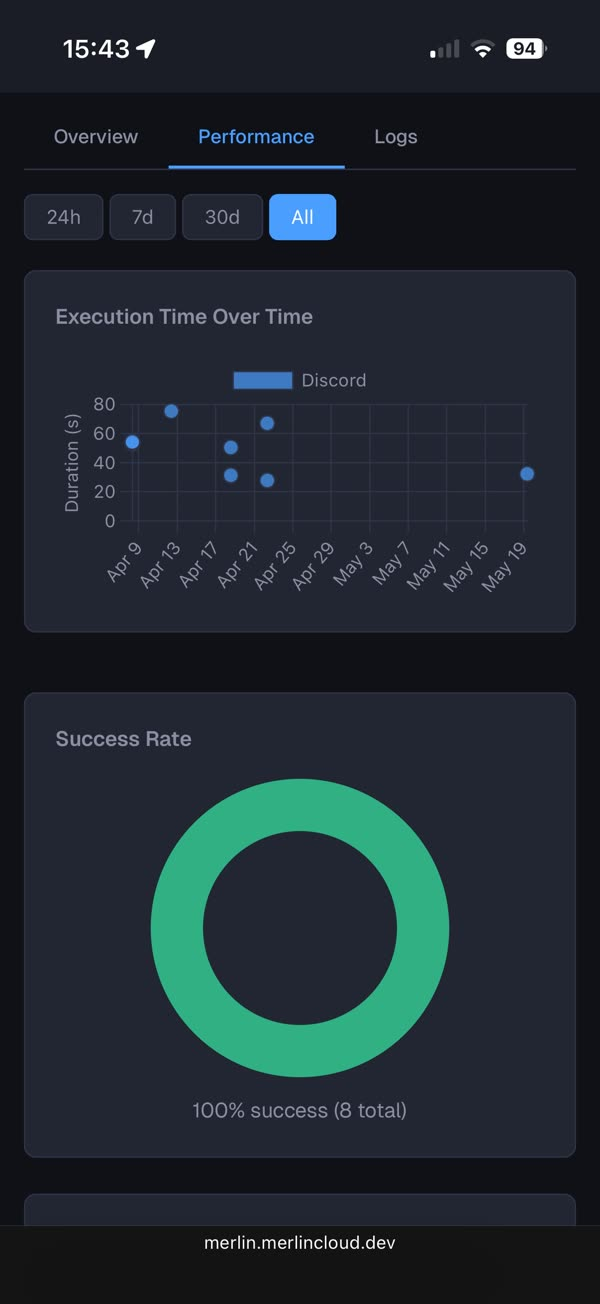
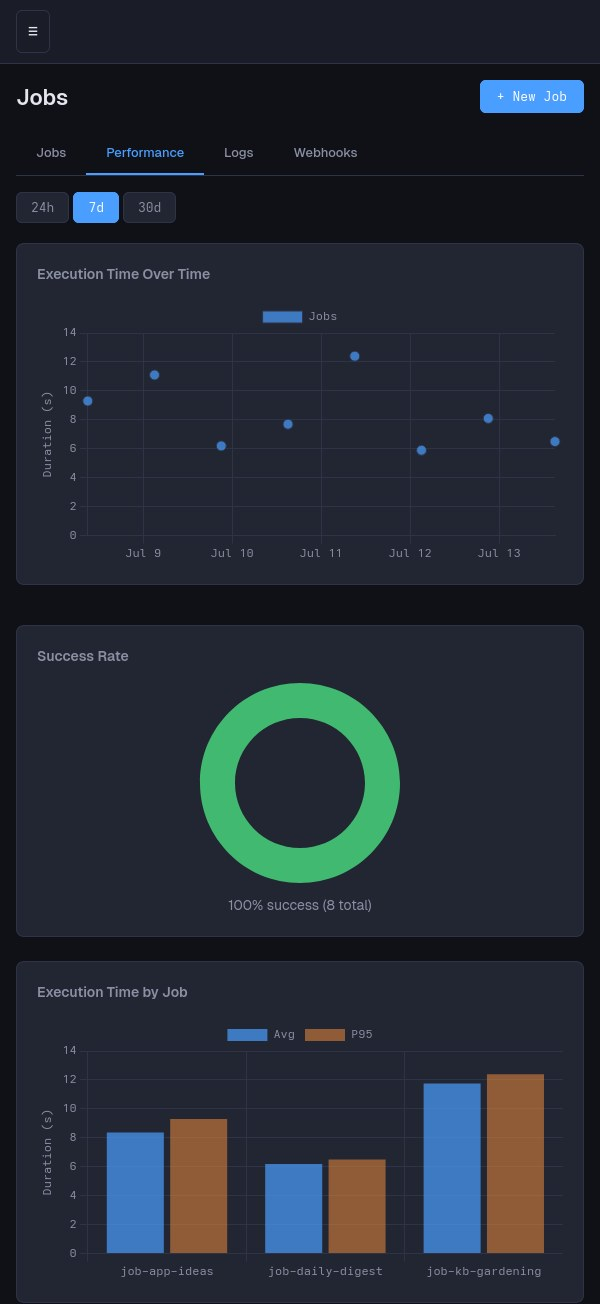
Rewrite the jobs doc around triggers and refresh its screenshots
The doc still read as a scheduler with webhooks bolted on at the end,
and its screenshots were the pre-rename UI (the jobs list literally
showed "Cron Jobs" with only Jobs/Logs tabs, no webhooks).

- Reframe around the actual model: a job is one unit of work launched
  by any combination of triggers — schedule, webhook, or by hand. New
  "Triggers" section with Schedule / Webhook / Manual-only as peers;
  the webhook content is promoted out of the tail into it.
- New "Watch webhook traffic" section documents the Webhooks tab
  (fires + rejected attempts), and the Logs section notes the trigger
  column. Reflects the shipped design: 256-bit secret, no in-app
  throttle, edge flood protection, 401/403/404 codes.
- Recaptured all screenshots against the current UI at the same
  600x1304 size: the jobs list (now "Jobs", four tabs, webhook
  badges, a schedule-only / webhook-only / both trigger mix), the
  Performance tab (correct tabs + "Jobs" legend), and two new ones —
  the webhook editor block and the Webhooks activity tab.
- CLI examples now include a webhook-only job; troubleshooting gains
  webhook 401/403/404 and coalesced entries.

diff --git a/docs/jobs.md b/docs/jobs.md
@@ -1,28 +1,29 @@
 # Jobs
 
-The `/jobs` page manages Merlin's built-in scheduler. It starts with the
-dashboard (no system crontab involved) and checks for due jobs every
-minute. A job is either an **agent prompt** (a full agent run, the same
-brain and memory as every other channel) or a **shell command** (plain
-`bash -lc`, no agent, no token cost). This is the flywheel node that works
-while you sleep: scheduled agent runs read and feed the
-[notes and knowledge base](notes.md), then report back to Discord where
-you can pick up the conversation.
+A **job** is one unit of work — a full agent run or a shell command — that
+Merlin can launch three ways: on a **schedule**, by an **incoming webhook**,
+or **by hand**. The triggers are independent: a job can have a schedule, a
+webhook, both, or neither (manual-only). No system crontab is involved; the
+`/jobs` page runs its own scheduler that starts with the dashboard. Agent
+jobs are the same brain and memory as every other channel — this is the
+flywheel node that works while you sleep: they read and feed the
+[notes and knowledge base](notes.md), then report to Discord where you can
+pick up the conversation.
 
 ![Jobs list on a phone](jobs/phone-jobs.jpg)
 
-The page has tabs for Jobs, Performance, and Logs — plus a Webhooks tab
-when any job has a webhook (see below). The same jobs can also be managed
-from the terminal with `merlin job`.
+The page has tabs for **Jobs**, **Performance**, and **Logs** — plus a
+**Webhooks** tab once any job has a webhook. Everything here can also be
+driven from the terminal with `merlin job`.
 
 ## See your jobs
 
-The Jobs tab shows one card per job: a status dot (gray: never run,
-green: last run succeeded, red: last run failed, exit code in the
-tooltip), the job ID, an `agent` or `command` badge, a `paused` tag when
-disabled, and a bell badge when Discord notifications are wired up. Below
-that: the schedule in plain words, timezone, next and last run, and the
-last run's cost and duration.
+The Jobs tab shows one card per job: a status dot (gray: never run, green:
+last run succeeded, red: last run failed, exit code in the tooltip), the job
+ID, an `agent` or `command` badge, a `webhook` badge when it is
+webhook-firable, a `paused` tag when disabled, and a bell badge when Discord
+notifications are wired up. Below that: the schedule in plain words (or
+`none`), timezone, next and last run, and the last run's cost and duration.
 
 ## Create a job
 
@@ -30,15 +31,71 @@ Hit **+ New Job**. Job IDs are slugs: lowercase letters, digits, single
 hyphens, starting with a letter, max 30 characters (the field auto-cleans
 what you type). The description is free text.
 
-You never have to write a cron expression: pick Every N minutes, Hourly,
-Daily, Weekly (day chips with Weekdays / Weekends / Every day shortcuts),
-Monthly, or Custom for a raw expression. A live preview shows the
-human-readable schedule, the next 3 run times in your timezone, and the
-generated cron expression.
+## Triggers
 
-Each job has its own timezone, defaulting to your browser's. Schedules
-are DST-aware: a 17:00 job stays at 17:00 wall-clock across the time
-change. The server-wide default comes from `CRON_TIMEZONE`.
+A job needs at least one way to run. Set any combination of the two triggers
+below; a job with neither is **manual-only** (see the end of this section).
+
+### Schedule
+
+Pick a **Schedule** in the editor. You never have to write a cron
+expression: choose Every N minutes, Hourly, Daily, Weekly (day chips with
+Weekdays / Weekends / Every day shortcuts), Monthly, Custom for a raw
+expression, or **No schedule** for a webhook- or manual-only job. A live
+preview shows the human-readable schedule, the next 3 run times in your
+timezone, and the generated cron expression.
+
+Each job has its own timezone, defaulting to your browser's. Schedules are
+DST-aware: a 17:00 job stays at 17:00 wall-clock across the time change. The
+server-wide default comes from `CRON_TIMEZONE`.
+
+### Webhook
+
+![Webhook trigger in the job editor](jobs/phone-webhook.jpg)
+
+Any job can be launched by an external HTTP call — an uptime monitor's
+incident alert, a CI pipeline, a shortcut on your phone. In the editor,
+check **Allow firing this job via HTTP webhook** and save: Merlin generates
+a secret and shows the job's public URL. A `POST` to that URL with the
+secret launches the job exactly like the scheduler would:
+
+```bash
+curl -X POST -H 'X-Merlin-Webhook-Secret: whk_...' \
+  https://your-instance/webhooks/job/my-job
+```
+
+If the sender cannot set headers, append `?token=whk_...` instead — but
+prefer the header: a secret in the URL can show up in server and proxy logs,
+whereas a header does not. `merlin job url <id>` prints the URL, the secret,
+and that exact curl command; `merlin job test <id>` fires the hook against
+your own server as a dry run of the whole path.
+
+What to know:
+
+- **One run at a time.** A fire while a run is already active is accepted
+  (HTTP 200) but coalesces into the running one — a monitor that fires five
+  times during one incident launches exactly one agent.
+- **Fresh session per fire.** Each webhook-launched agent run starts with a
+  clean session, so two separate incidents never share context.
+- **The secret is the key.** Anyone with the URL + secret can run the job
+  (and a command job runs a shell command), so treat it like a credential.
+  Rotate it anytime from the editor or `merlin job webhook <id> --rotate`;
+  the old secret stops working immediately. The secret is a 256-bit token,
+  so guessing it is hopeless — there is no in-app rate limiter; flood
+  protection, if you need it, is a job for your reverse proxy (on Merlin
+  Cloud it is handled for you).
+- **Where the URL comes from.** On Merlin Cloud it rides your instance's own
+  subdomain (`https://{you}.merlincloud.dev/webhooks/job/{id}`), discovered
+  automatically and following along if you rename your environment.
+  Self-hosted behind your own tunnel or proxy, set the **Public URL** in
+  Settings (or `MERLIN_DASHBOARD_URL` in `~/.merlin/config.env`) and the
+  editor and CLI print it.
+
+### Manual only
+
+A job with **no schedule and no webhook** runs only when you fire it — from
+the card's **Run Now**, **Save & run now**, or `merlin job trigger <id>`.
+Handy for a task you want on tap without it running on its own.
 
 ## Choose the action
 
@@ -50,15 +107,16 @@ The **Agent prompt / Shell command** toggle decides what runs:
   agent, no token cost. stdout and stderr land in the run log.
 
 **Working directory** is optional and applies to both types: the job's
-setting, else where Merlin was launched, else `$HOME`. Point an agent job
-at a project repo and it auto-loads that repo's `CLAUDE.md`.
+setting, else where Merlin was launched, else `$HOME`. Point an agent job at
+a project repo and it auto-loads that repo's `CLAUDE.md`. Clear the field to
+fall back to the default.
 
 ## Set notifications
 
 **Notify** is Always, Errors only, or Never: a Discord report after each
 run, posted through the [bot](bot.md) when it is enabled. When the bot is
-loaded you can override the destination channel per job; leave it empty
-to use the bot's default channel.
+loaded you can override the destination channel per job; leave it empty to
+use the bot's default channel.
 
 ## Agent options
 
@@ -66,154 +124,128 @@ Hidden for command jobs:
 
 - **Max Turns**: cap on agent turns, 0 means unlimited.
 - **Session Mode**: fresh session each run (default, recommended) or
-  persistent. Fresh runs start clean, so anything worth keeping must land
-  in the notes system. Persistent keeps context across runs, but costs
-  grow over time.
+  persistent. Fresh runs start clean, so anything worth keeping must land in
+  the notes system. Persistent keeps context across runs, but costs grow
+  over time. (Webhook fires always get a fresh session regardless of this
+  setting, so independent incidents never share context.)
 
 ## Save and run
 
-**Create Job** saves it. **Save & run now** saves, fires an immediate
-run, and drops you straight into that job's logs. A freshly created job
-otherwise waits for its next scheduled occurrence (see troubleshooting).
+**Create Job** saves it. **Save & run now** saves, fires an immediate run,
+and drops you straight into that job's logs. A freshly created scheduled job
+otherwise waits for its next occurrence (see troubleshooting).
 
 ## Run, pause, edit, delete
 
-Each card has a toggle switch (off pauses the job: the scheduler skips it
-and the card dims with a `paused` tag) and a three-dot menu: **Edit**
-(reopens the form, the ID is locked), **Run Now** (background run, works
-even on paused jobs), **View Logs** (Logs tab pre-filtered to that job),
-and **Delete** (confirm dialog; removes the job and all its logs, state,
-and locks).
+Each card has a toggle switch (off pauses the job — the scheduler skips it,
+webhook fires are refused, and the card dims with a `paused` tag) and a
+three-dot menu: **Edit** (reopens the form, the ID is locked), **Run Now**
+(background run, works even on paused jobs), **View Logs** (Logs tab
+pre-filtered to that job), and **Delete** (confirm dialog; removes the job
+and all its logs, state, and locks).
 
 ## Read run history
 
-The Logs tab lists runs newest-first across all jobs, with a per-job
-filter: time, job, status, duration, cost. Click a row to expand the
-captured output; agent runs get a **View session** link into the session
-viewer for the full transcript.
+The Logs tab lists runs newest-first across all jobs, with a per-job filter:
+time, job, status, trigger (schedule / webhook / manual), duration, cost.
+Click a row to expand the captured output; agent runs get a **View session**
+link into the session viewer for the full transcript.
+
+## Watch webhook traffic
+
+![The Webhooks tab: fires and rejected attempts](jobs/phone-webhooks.jpg)
+
+The **Webhooks** tab (shown once any job has a webhook) is the audit view
+for the public endpoint. It lists every fire **and every rejected attempt**
+(wrong secret, unknown job) with the caller's IP — a public endpoint's
+failed hits are worth seeing. Outcomes are color-coded: `launched` and
+`coalesced` in green/amber, rejections in red. Filter by webhook job with
+the dropdown. The editor also shows a "last fired" line per job.
 
 ## Check performance
 
 ![Job performance dashboard](jobs/phone-job-performance.jpg)
 
 The Performance tab charts execution time over time, success rate, and
-execution time and cost by job, over a 24h / 7d / 30d range. Only agent
-runs appear here: command jobs never invoke the engine, so they have no
-metrics to chart (their results still show in Jobs and Logs).
+execution time and cost by job, over a 24h / 7d / 30d range. Only agent runs
+appear here: command jobs never invoke the engine, so they have no metrics
+to chart (their results still show in Jobs and Logs).
 
 ## Manage from the terminal
 
-`merlin job` covers the same jobs: add, list, get, enable, disable,
-remove, trigger, history, plus the webhook trigger (webhook, url, test).
-`merlin job --help` has the full reference.
-One example:
+`merlin job` covers the same jobs: add, list, get, enable, disable, remove,
+trigger, history, plus the webhook trigger (`webhook`, `url`, `test`).
+`merlin job --help` has the full reference. Two examples:
 
 ```bash
+# A scheduled agent job
 merlin job add --schedule "0 7 * * *" \
   --prompt "Summarize yesterday's commits and log highlights to the KB" \
   --description "Morning digest"
+
+# A webhook-only job, then print its public URL + secret
+merlin job add --prompt "Triage the outage" --description "Incident triage" --webhook
+merlin job url incident-triage
 ```
 
-The ID is auto-slugged from the description unless you pass one. The CLI
+The ID is auto-slugged from the description unless you pass one. Omit
+`--schedule` for a webhook- or manual-only job (passing an empty
+`--schedule ""` is an error, to catch an unset shell variable). The CLI
 creates agent prompt jobs; command jobs, working directories, and per-job
 timezones are set in the web UI. `merlin job trigger <id>` runs a job
-immediately, bypassing the schedule; `merlin job history` shows recent
-runs.
-
-## Fire a job from outside (webhook)
-
-Any job can be launched by an external HTTP call — an uptime monitor's
-incident alert, a CI pipeline, a shortcut on your phone. In the job editor,
-check **Allow firing this job via HTTP webhook** and save: Merlin generates
-a secret and shows the job's public URL. A `POST` to that URL with the
-secret launches the job exactly like the scheduler would:
-
-```bash
-curl -X POST -H 'X-Merlin-Webhook-Secret: whk_...' \
-  https://your-instance/webhooks/job/my-job
-```
-
-If the sender cannot set headers, append `?token=whk_...` instead — but
-prefer the header: a secret in the URL can show up in server and proxy
-logs, whereas a header does not.
-`merlin job url <id>` prints the URL, the secret, and that exact curl
-command; `merlin job test <id>` fires the hook against your own server as a
-dry run of the whole path.
-
-What to know:
-
-- **One run at a time.** A fire while a run is already active is accepted
-  (HTTP 200) but coalesces into the running one — a monitor that fires five
-  times during one incident launches exactly one agent.
-- **Fresh session per fire.** Each webhook-launched agent run starts with a
-  clean session, so two separate incidents never share context.
-- **Schedule optional.** A job can have a schedule, a webhook, both, or
-  neither (manual-only) — pick "No schedule" in the editor for a
-  webhook-only job.
-- **The secret is the key.** Anyone with the URL + secret can run the job
-  (and a command job runs a shell command), so treat it like a credential.
-  Rotate it anytime from the editor or `merlin job webhook <id> --rotate`;
-  the old secret stops working immediately.
-- **Watch the traffic.** The **Webhooks** tab shows every fire and every
-  rejected attempt (wrong secret, unknown job) with the caller's IP — a
-  public endpoint's failed hits are worth seeing. The secret is a 256-bit
-  token, so guessing it is hopeless; flood protection, if you need it, is a
-  job for your reverse proxy (on Merlin Cloud it's handled for you).
-
-On Merlin Cloud, the URL rides your instance's own subdomain
-(`https://{you}.merlincloud.dev/webhooks/job/{id}`) — discovered
-automatically, and it follows along if you rename your environment.
-Self-hosted behind your own tunnel or proxy, set `MERLIN_DASHBOARD_URL` in
-`~/.merlin/config.env` to whatever address reaches your box, and the editor
-and CLI will print it.
+immediately, bypassing the schedule; `merlin job history` shows recent runs.
 
 ## Continue a run on Discord
 
 A job report on Discord is not a dead end. Messages posted in a thread
-attached to the report resume that exact agent session, with the run's
-full context. Long reports get a thread automatically; for short ones,
-start a thread on the report message. Ask follow-ups, have your agent
-save findings to the knowledge base, and the next scheduled run reads
-them. See [the Discord bot](bot.md).
+attached to the report resume that exact agent session, with the run's full
+context. Long reports get a thread automatically; for short ones, start a
+thread on the report message. Ask follow-ups, have your agent save findings
+to the knowledge base, and the next scheduled run reads them. See
+[the Discord bot](bot.md).
 
 ## Mobile notes
 
 - The create/edit form goes fullscreen on a phone (centered dialog on
-  desktop), and footer buttons stack with the primary action closest to
-  your thumb.
+  desktop), and footer buttons stack with the primary action closest to your
+  thumb.
 - Time and date fields open the native iOS picker, restyled to match the
   rest of the form; inputs are sized to avoid the iOS focus zoom.
-- Job cards stack info above actions, and buttons and form controls
-  keep comfortable touch targets.
+- Job cards stack info above actions, and buttons and form controls keep
+  comfortable touch targets.
 
 ## Troubleshooting
 
 - **A new job did not run right away**: the scheduler registers a job the
-  first time it sees it and waits for the next scheduled occurrence. Use
-  Save & run now, Run Now, or `merlin job trigger` to fire it now.
-- **A run was skipped, not run late**: if Merlin was down past a job's
-  grace window (15 minutes by default, per-job overridable), the missed
-  run is skipped and the schedule advances.
-- **Red banner on /jobs**: the scheduler crashed in the last 24 hours.
-  Check the logs, then dismiss.
+  first time it sees it and waits for the next scheduled occurrence. Use Save
+  & run now, Run Now, or `merlin job trigger` to fire it now.
+- **A run was skipped, not run late**: if Merlin was down past a job's grace
+  window (15 minutes by default, per-job overridable), the missed run is
+  skipped and the schedule advances.
+- **A webhook returned 401 / 403 / 404**: `401` is a bad or missing secret,
+  `403` is a disabled job, `404` is an unknown job or one with no webhook.
+  Check the Webhooks tab for the logged attempt.
+- **A webhook fire "coalesced"**: a run was already in flight, so the fire
+  joined it instead of starting a second run. This is expected under
+  repeated fires for one incident.
+- **Red banner on /jobs**: the scheduler crashed in the last 24 hours. Check
+  the logs, then dismiss.
 - **"Job already running (locked)"**: a per-job lock prevents overlapping
-  runs; the scheduler skips a job that is mid-run and `merlin job
-  trigger` reports the lock. Wait for the current run to finish.
-- **A command job exited with code 124**: command jobs are killed after
-  1 hour; the run log shows "Command timed out".
-- **No Discord notification**: the bot extension must be loaded and a
-  channel configured, otherwise notifications are silently skipped (the
-  job still runs and logs). "Errors only" skips successful runs by
-  design.
-- **422 when saving an edit**: switching a job's type requires filling
-  the matching field (a command job needs a command, a prompt job needs a
+  runs; the scheduler skips a job that is mid-run and `merlin job trigger`
+  reports the lock. Wait for the current run to finish.
+- **A command job exited with code 124**: command jobs are killed after 1
+  hour; the run log shows "Command timed out".
+- **No Discord notification**: the bot extension must be loaded and a channel
+  configured, otherwise notifications are silently skipped (the job still
+  runs and logs). "Errors only" skips successful runs by design.
+- **422 when saving an edit**: switching a job's type requires filling the
+  matching field (a command job needs a command, a prompt job needs a
   prompt).
-- **"A job with this ID already exists"**: job IDs are unique; pick
-  another.
-- **Wrong timezone behavior**: an invalid per-job timezone falls back to
-  the server default. An invalid server-wide `CRON_TIMEZONE` shows up as
-  recurring scheduler crashes (the red banner) while schedule previews
-  fall back to UTC; fix the value in `config.env`.
+- **"A job with this ID already exists"**: job IDs are unique; pick another.
+- **Wrong timezone behavior**: an invalid per-job timezone falls back to the
+  server default. An invalid server-wide `CRON_TIMEZONE` shows up as
+  recurring scheduler crashes (the red banner) while schedule previews fall
+  back to UTC; fix the value in `config.env`.
 - **Truncated output**: the log viewer caps run output at 100KB with an
   explicit marker. Merlin keeps the last 50 execution logs and a rolling
   100-run history per job.
